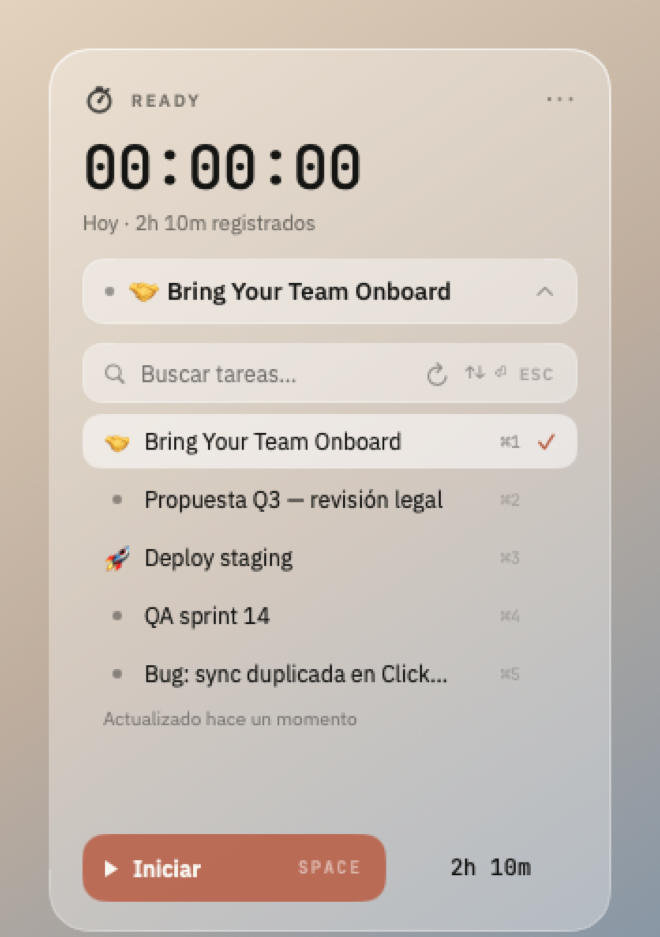
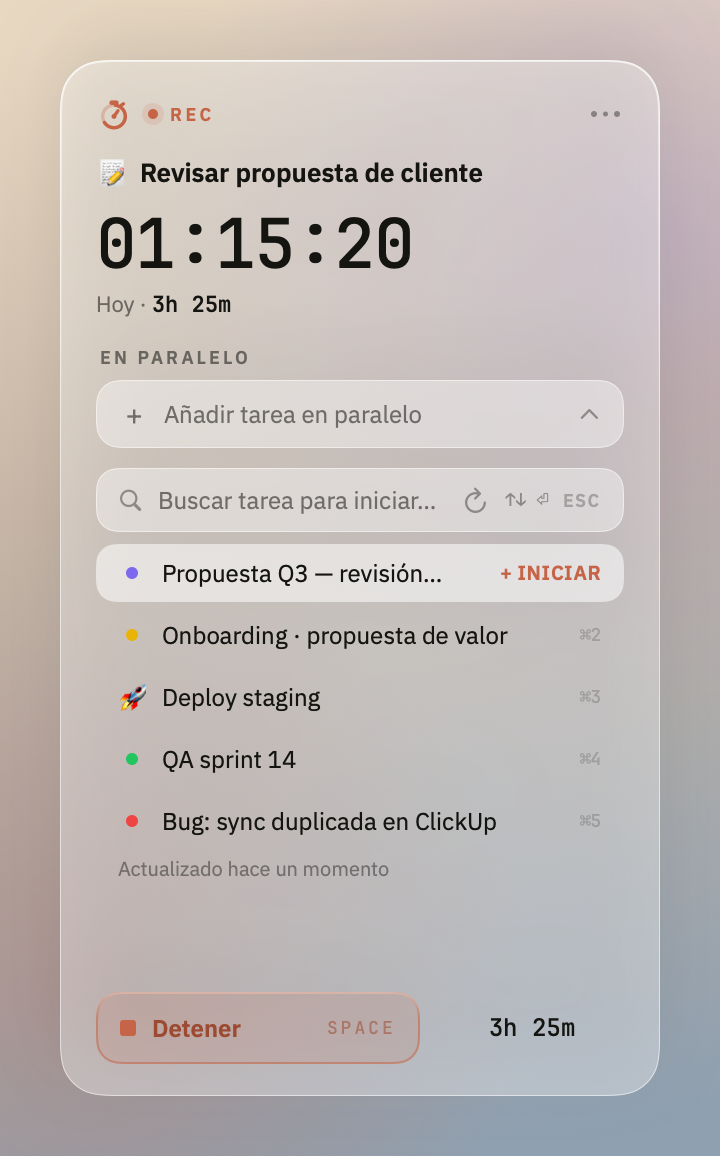
Document parallel timers and refresh the README screenshots
Claude-Session: https://claude.ai/code/session_016roU48gZZ8oDzJmMzRcUth

diff --git a/README.md b/README.md
@@ -3,20 +3,21 @@
 A macOS menu bar app for tracking time straight into [ClickUp](https://clickup.com) tasks, built to be driven entirely from the keyboard.
 
 <p align="center">
-  <img src="docs/images/panel.png" width="330" alt="ChronoTask panel showing the timer, today's total and the selected task" />
-  <img src="docs/images/task-list.png" width="330" alt="Task list expanded with search and keyboard shortcuts" />
+  <img src="docs/images/panel.png" width="330" alt="ChronoTask panel timing three tasks in parallel, one in focus and two listed below it" />
+  <img src="docs/images/task-list.png" width="330" alt="Task list open to start another task in parallel, with search and keyboard shortcuts" />
 </p>
 
 ## What It Does
 
-Click the stopwatch in the menu bar — or hit <kbd>⌥⌘T</kbd> from anywhere — and a translucent panel drops down under it. Pick a task, start the timer, and when you stop it the time entry lands in ClickUp with the exact duration.
+Click the stopwatch in the menu bar — or hit <kbd>⌥⌘T</kbd> from anywhere — and a translucent panel drops down under it. Pick a task and its timer starts; when you stop it the time entry lands in ClickUp with the exact duration.
 
 <p align="center">
-  <img src="docs/images/menu-bar.png" width="560" alt="The stopwatch icon in the macOS menu bar" />
+  <img src="docs/images/menu-bar.png" width="560" alt="The stopwatch in the macOS menu bar, showing the focused task's time and +2 more running" />
 </p>
 
-- **Lives in the menu bar.** No window in your way. While tracking, the elapsed time shows next to the icon.
-- **Hover peek.** Point at the icon and a small panel appears with the timer and a stop button — no need to open anything.
+- **Lives in the menu bar.** No window in your way. While tracking, the elapsed time shows next to the icon — plus `+2` when two more tasks run beside it.
+- **Several tasks at once.** Add a task in parallel and each keeps its own clock. One is in focus, shown large; the rest are listed below it — click one to focus it, or stop just that one. The ■ beside the task in focus stops just that one (<kbd>⌫</kbd>); *Solo esta* stops all the others, *Detener N* stops everything (<kbd>Space</kbd>).
+- **Hover peek.** Point at the icon and a small panel lists every running task with its time, and their sum — no need to open anything.
 - **Keyboard first.** Open, search, pick and start without touching the mouse. See [Keyboard](#keyboard).
 - **Today's total, from ClickUp.** `Hoy · 2h 10m registrados` is read from the API, so it also counts time logged from the web or your phone.
 - **Follows your appearance.** Light and dark, automatically.
@@ -59,7 +60,7 @@ sudo xcode-select -s /Applications/Xcode.app/Contents/Developer
 
 ## Keyboard
 
-The whole flow without the mouse: <kbd>⌥⌘T</kbd> → type a couple of letters → <kbd>⏎</kbd> → <kbd>Space</kbd>. Or shorter still, <kbd>⌥⌘T</kbd> → <kbd>⌘2</kbd>.
+The whole flow without the mouse: <kbd>⌥⌘T</kbd> → type a couple of letters → <kbd>⏎</kbd>. Or shorter still, <kbd>⌥⌘T</kbd> → <kbd>⌘2</kbd>. Doing it again while something runs adds the new task in parallel.
 
 ### Anywhere
 
@@ -71,11 +72,13 @@ The whole flow without the mouse: <kbd>⌥⌘T</kbd> → type a couple of letter
 
 | Key | Action |
 |---|---|
-| <kbd>Space</kbd> | Start / stop the timer |
+| <kbd>Space</kbd> | Stop every running task — or, with none running, open the list |
+| <kbd>⌫</kbd> | Stop only the task in focus — the others keep running |
+| <kbd>⇥</kbd> · <kbd>⇧⇥</kbd> | Bring the next / previous running task into focus |
 | <kbd>↓</kbd> | Expand the task list |
 | <kbd>⌘K</kbd> · <kbd>⌘F</kbd> · <kbd>/</kbd> | Jump to the task search field |
-| <kbd>⌘1</kbd>…<kbd>⌘9</kbd> | Pick that task **and start the timer** |
-| <kbd>⌘Q</kbd> | Quit — the running entry is uploaded first |
+| <kbd>⌘1</kbd>…<kbd>⌘9</kbd> | Start that task, beside anything already running |
+| <kbd>⌘Q</kbd> | Quit — every running entry is uploaded first |
 | <kbd>Esc</kbd> | Close the panel |
 
 The **…** button in the header opens About, *Cambiar API key…* and Quit. <kbd>Esc</kbd> closes the menu before the list, and the list before the panel.
@@ -85,27 +88,27 @@ The **…** button in the header opens About, *Cambiar API key…* and Quit. <kb
 | Key | Action |
 |---|---|
 | <kbd>↑</kbd> <kbd>↓</kbd> | Move through the tasks, scrolling as needed |
-| <kbd>⏎</kbd> | Select the focused task |
+| <kbd>⏎</kbd> | Start the focused task |
 | <kbd>Esc</kbd> | Close the list — press again to close the panel |
 | *(type)* | Filter by name |
 
 The list is cached for five minutes and reloaded when it goes stale. The refresh button in the search field forces it sooner and spins while it works; underneath, *Actualizado hace X min* tells you how old what you are looking at is. Until the list has ever loaded that line stays empty rather than claiming a freshness the app cannot back.
 
-<kbd>Space</kbd> is left alone while you are typing in the search field, so you can search for "Deploy staging" without stopping the timer.
+Tasks already running are left out of the list — they are a click away above it. <kbd>Space</kbd> is left alone while you are typing in the search field, so you can search for "Deploy staging" without stopping anything.
 
 ### In the menu bar's context menu
 
-Right-click the icon for: open the panel, start/stop, refresh tasks (<kbd>⌘R</kbd>), change the API key, and quit (<kbd>⌘Q</kbd>). Quitting from either menu uploads the running entry before it goes.
+Right-click the icon for: open the panel, stop the task in focus or everything (or restart the last task), refresh tasks (<kbd>⌘R</kbd>), change the API key, and quit (<kbd>⌘Q</kbd>). Quitting from either menu uploads every running entry before it goes.
 
 ## How It Works
 
 Some behaviour worth knowing about, because it is deliberate:
 
-- **Today's total is whatever ClickUp says**, plus the session currently running. It is not a local tally, so a failed sync never inflates it. If the figure has never loaded, a dash is shown rather than `0m` — that would be a claim the app cannot back.
+- **Today's total is whatever ClickUp says**, plus every session currently running. It is not a local tally, so a failed sync never inflates it. If the figure has never loaded, a dash is shown rather than `0m` — that would be a claim the app cannot back.
 - **A session that crosses midnight counts towards the day it started**, matching how ClickUp files it. So the total does not drop when the entry is finally posted.
-- **If the app quits while timing**, the session is recovered on next launch. Reopened within a couple of minutes it just resumes; after longer it asks, and only ever offers the stretch up to the last heartbeat — never the gap where your Mac may have been asleep.
+- **If the app quits while timing**, every running session is recovered on next launch. Reopened within a couple of minutes it just resumes; after longer it asks, and only ever offers the stretch up to the last heartbeat — never the gap where your Mac may have been asleep.
 - **If an upload fails**, the entry is written to disk and retried on launch, after each successful sync, and every minute while anything is pending. The time is not lost.
-- **Switching task while the timer runs** stops it, waits for the entry to actually reach ClickUp, and then starts the new one.
+- **Parallel tasks are separate entries.** Each one posts its own time entry when it stops, so overlapping stretches are logged in ClickUp exactly as they ran. Stopping never blocks: the task leaves the panel at once and its entry uploads in the background.
 
 ## Development
 
